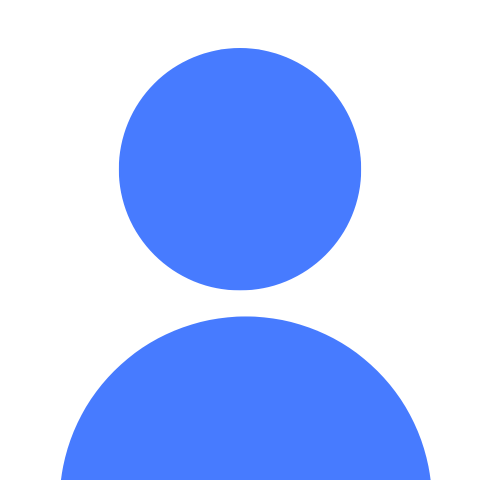
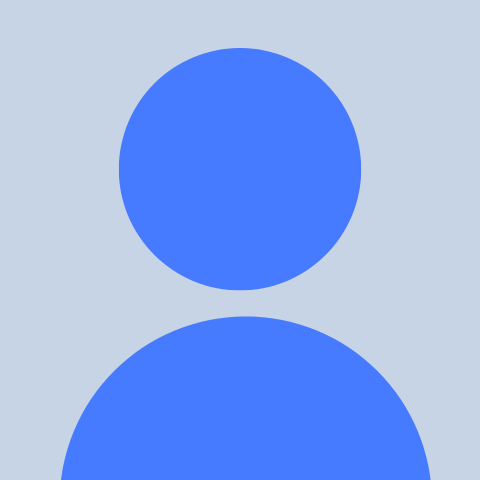
ドロップダウン

diff --git a/app/assets/stylesheets/application.bootstrap.css b/app/assets/stylesheets/application.bootstrap.css
@@ -52,3 +52,13 @@
 .content {
   font-size: 20px; /* 内容の文字サイズ */
 }
+
+.nav-item {
+  display: flex;
+  align-items: center;
+}
+
+.header-text {
+  /* 必要に応じて追加のスタイルをここに */
+  margin-left: 10px; /* 画像とテキストの間のスペースを調整 */
+}

diff --git a/app/uploaders/avatar_uploader.rb b/app/uploaders/avatar_uploader.rb
@@ -14,7 +14,7 @@ class AvatarUploader < CarrierWave::Uploader::Base
     end
   
     def default_url
-      'sample.jpg'
+      'icon.png'
     end
   
     # Process files as they are uploaded:

diff --git a/app/controllers/profiles_controller.rb b/app/controllers/profiles_controller.rb
@@ -1,5 +1,6 @@
 class ProfilesController < ApplicationController
   before_action :set_user, only: %i[edit update]
+  
     def edit; end
       
     def update
